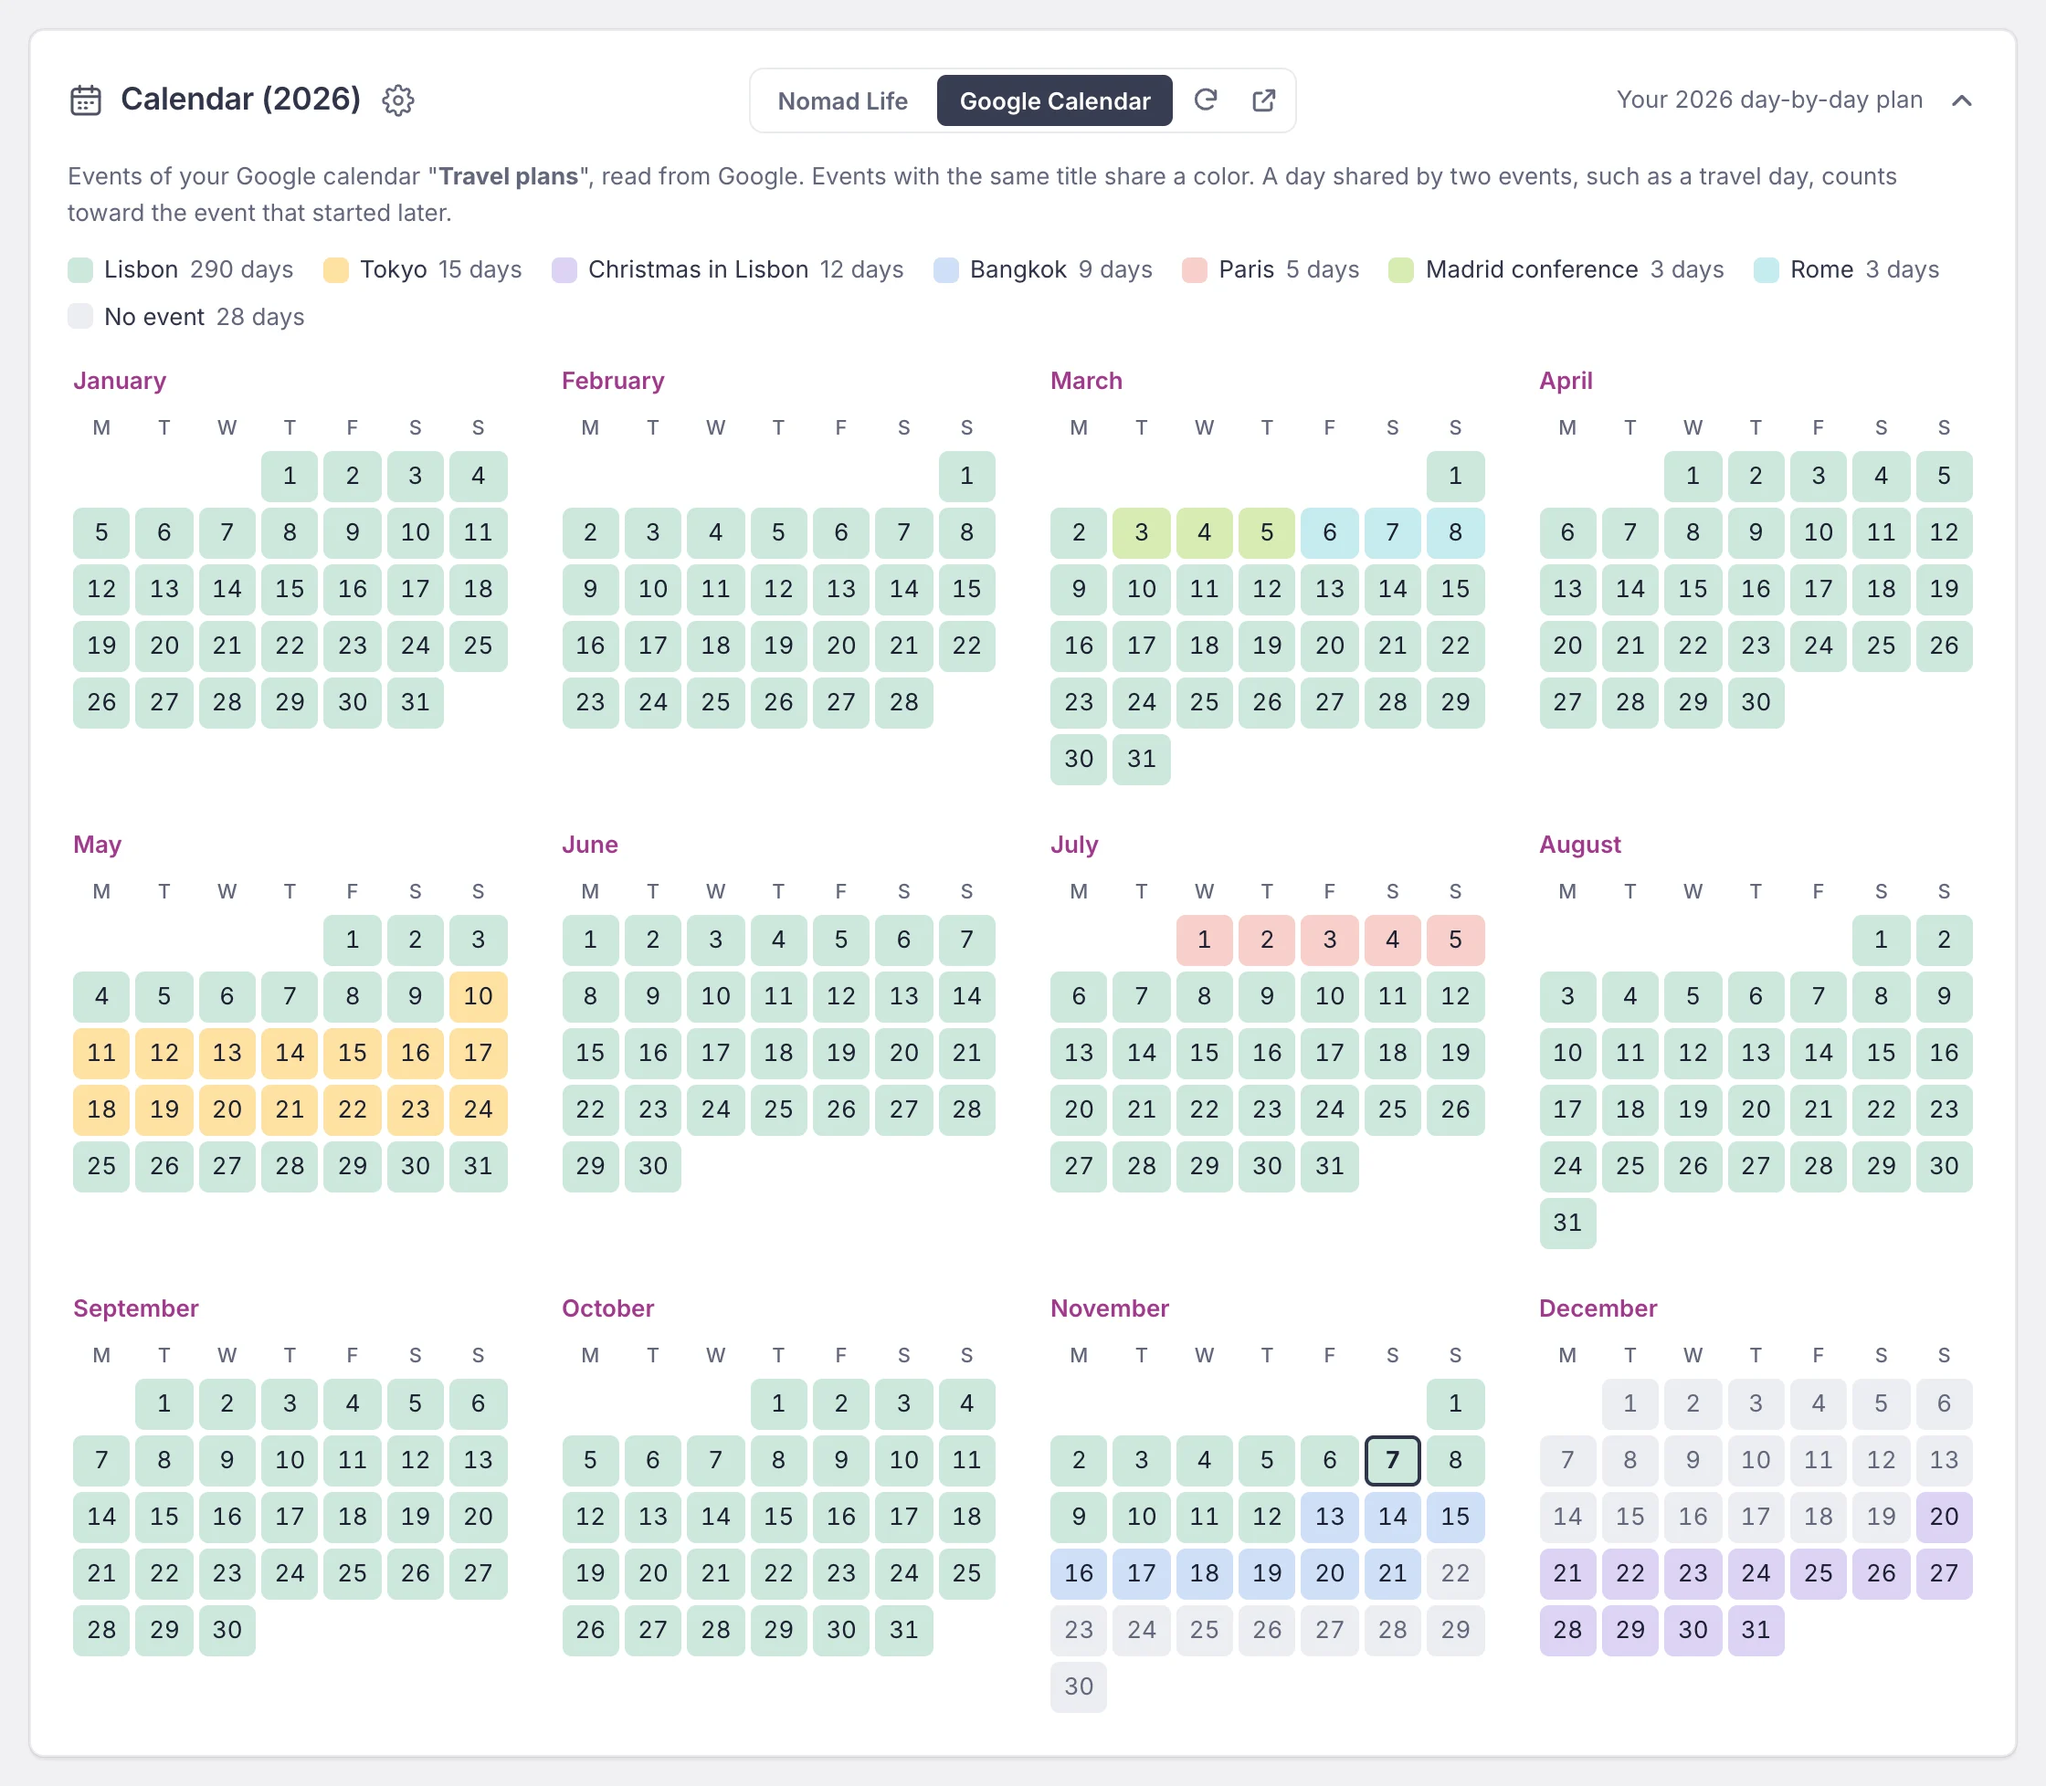
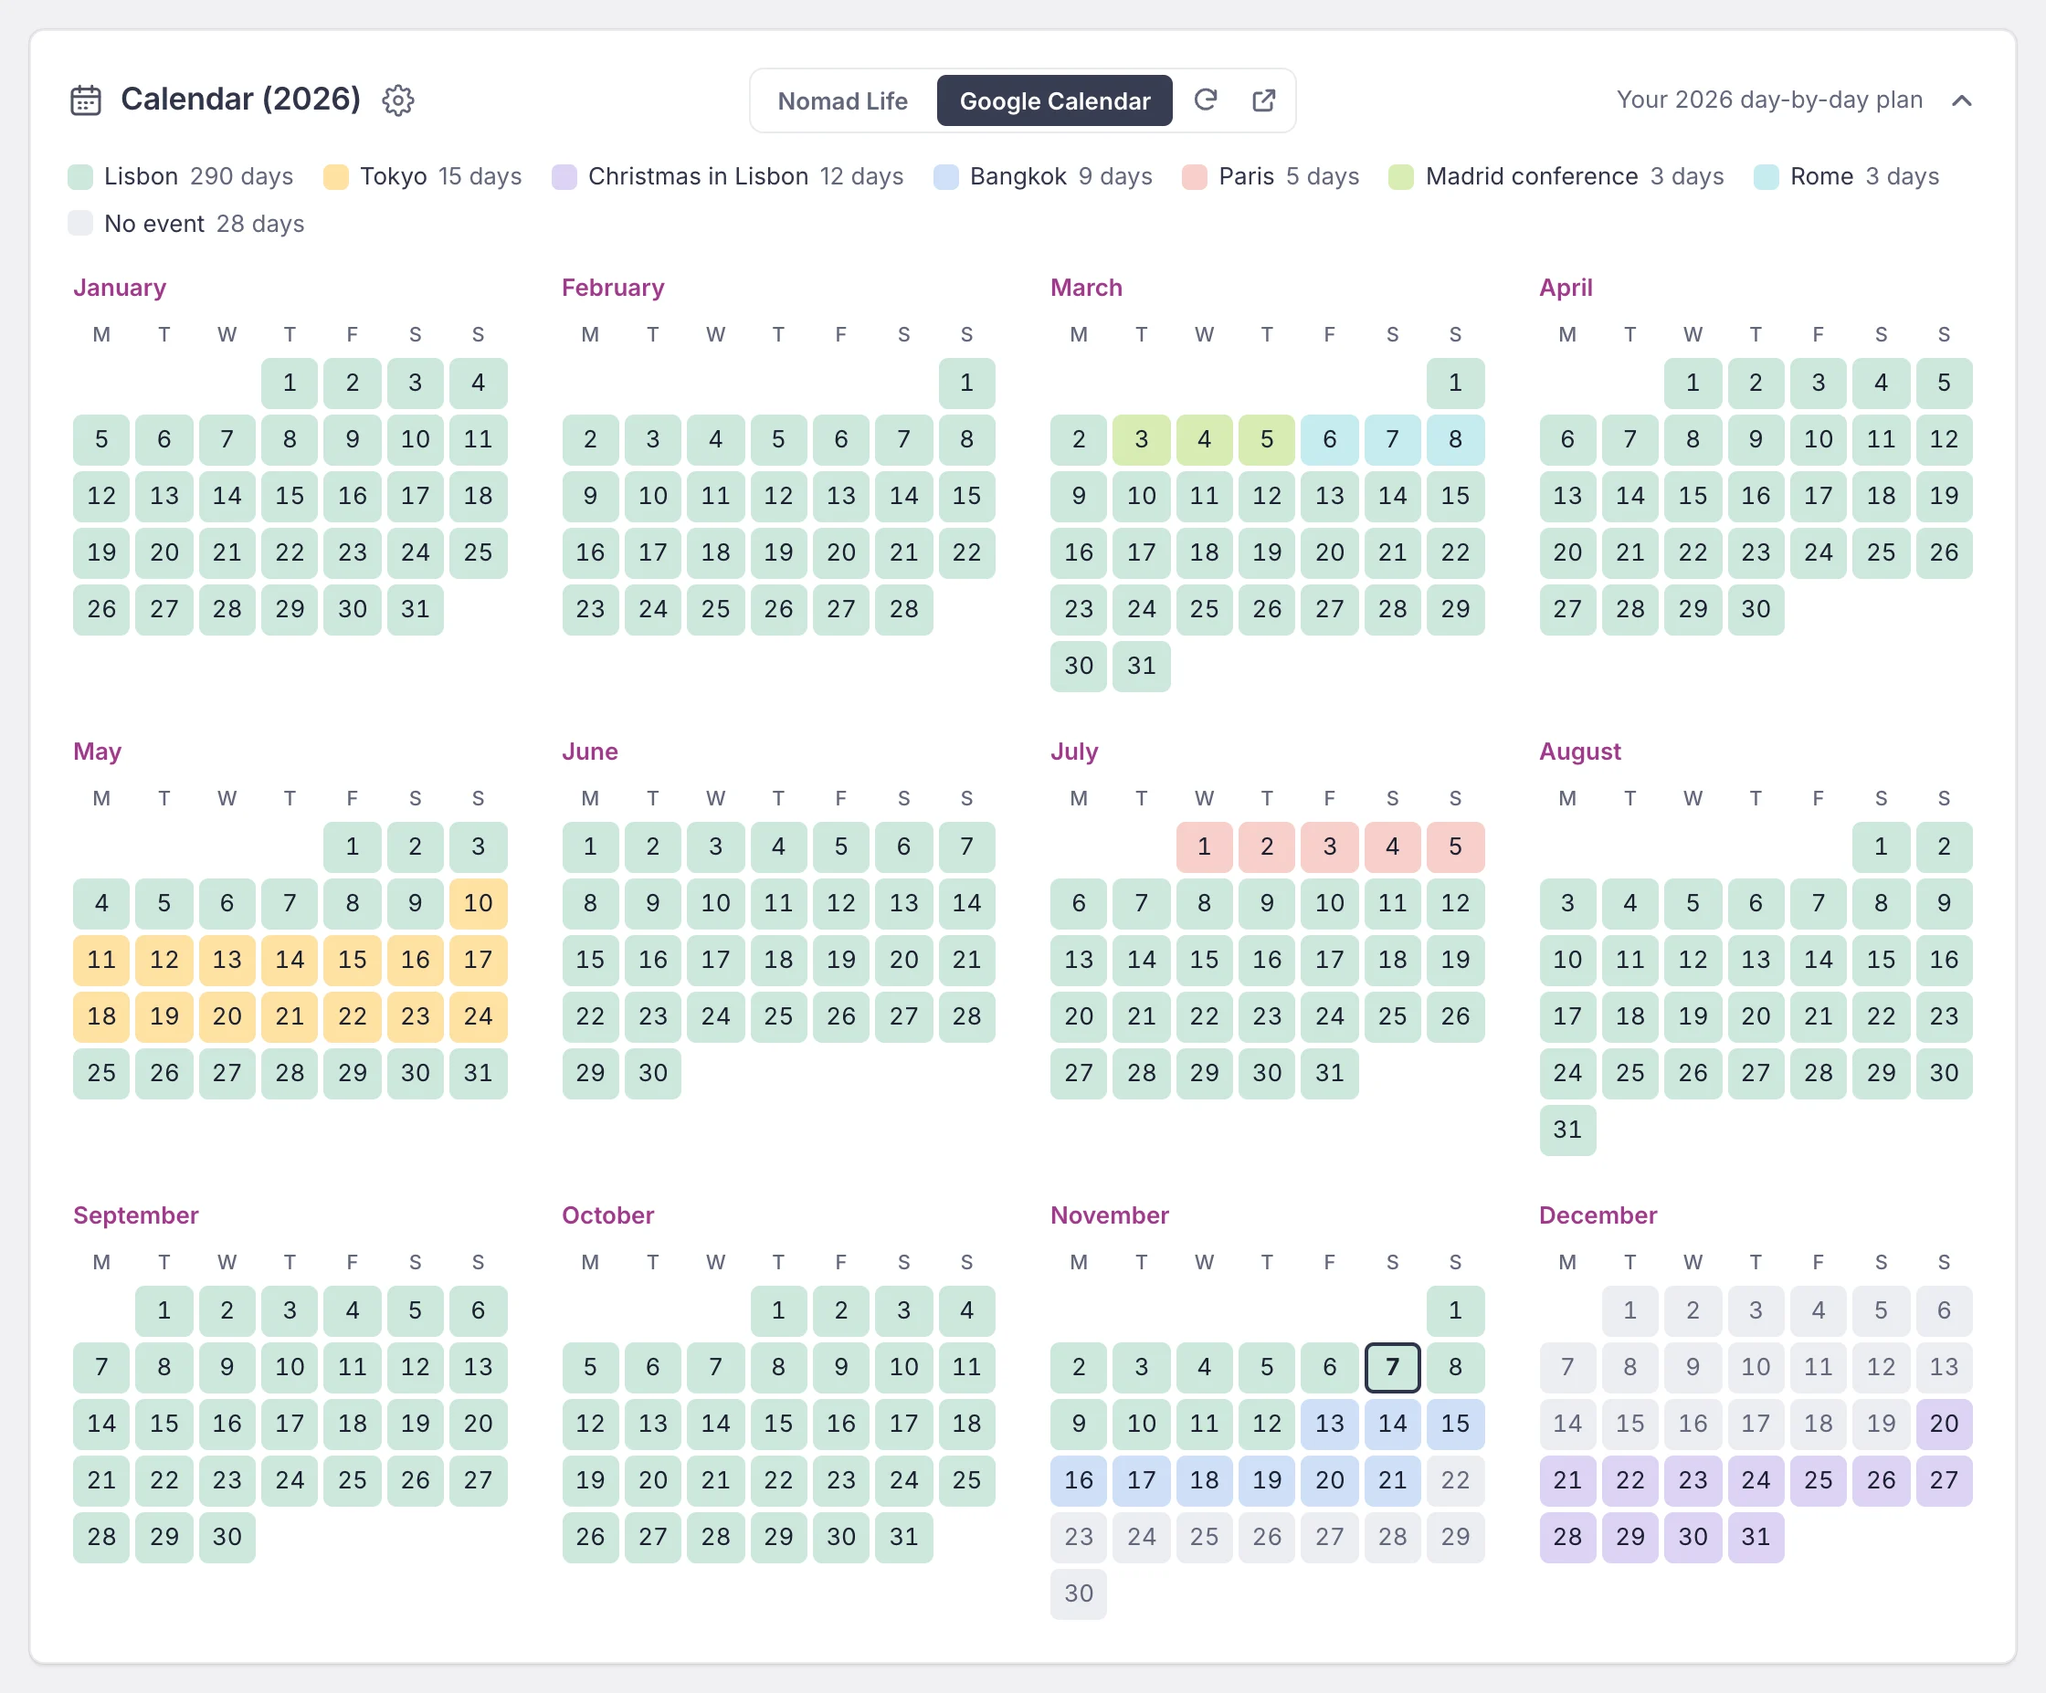
Google Calendar tab: remove the line above the legend

diff --git a/templates/_google_calendar.html b/templates/_google_calendar.html
@@ -3,8 +3,6 @@
 {% import "_macros.html" as ui with context %}
 {% set name = view.link.calendar_name if view.link else "" %}
 {% if view.state == "ok" %}
-    {# The same rule, in the same words, as the Days per Country card. #}
-    <p class="muted small cal-source">Events of your Google calendar "<strong dir="auto">{{ name }}</strong>", read from Google. Events with the same title share a color. A day shared by two events, such as a travel day, counts toward the event that started later.</p>
     {% if view.refresh_failed %}<p class="small cal-notice" data-cal-refresh-failed>Google did not answer, so this is the calendar as it was read a moment ago. Try again in a moment.</p>{% endif %}
     {% if view.truncated %}<p class="small cal-notice">This calendar has more events in {{ y.year }} than Nomad Life can show at once; the latest ones are left out (shown as No event).</p>{% endif %}
     {% if not view.calendar.legend %}<p class="small cal-notice">No events in {{ y.year }} in this calendar.</p>{% endif %}

diff --git a/tests/test_calendar_tabs.py b/tests/test_calendar_tabs.py
@@ -128,10 +128,7 @@ class TabsShownTests(TabsCase):
         self.assertIn('<div class="cal-panel" data-cal-panel="local" hidden>', html)
         self.assertIn('data-cal-tab="google" data-src', html)
         google = html[html.index('data-cal-panel="google"'):]
-        # The same rule, in the same words, as the Days per Country card.
-        self.assertIn("Events of your Google calendar \"<strong dir=\"auto\">Work</strong>\", read from Google. "
-                      "Events with the same title share a color. A day shared by two events, such as a travel "
-                      "day, counts toward the event that started later.", google)
+        self.assertNotIn("Events of your Google calendar", google)  # the line is gone (1.12.15)
         self.assertIn('<span dir="auto">Lisbon</span> <span class="muted">3 days</span>', google)
         self.assertIn("No event <span class=\"muted\">362 days</span>", google)
         self.assertIn('aria-label="Google Calendar: Work" aria-current="page"', html)

diff --git a/CHANGELOG.md b/CHANGELOG.md
@@ -14,6 +14,7 @@ All notable changes to this project are documented in this file.
 - The Movements table writes dates as **18-Jan-2027 to 30-Jan-2027**, and the place as its flag, the **country** in bold, a bar and the city (the city on its own line on phones). The overlap report uses the same dates.
 - Pointing at a day of the Nomad Life calendar shows a tooltip in the app's style with the date and the country with its flag; the Google tab's days show the event. The calendar legends no longer show flags.
 - The receipt type list of a movement is wide enough for **Hotel / Home rent** on one line.
+- The Google Calendar tab no longer shows its line above the legend ("Events of your Google calendar ..., read from Google. ...").
 - The documentation's Movements, calendar and receipts screenshots show the new table, tooltips and type list.
 
 ### Fixed
